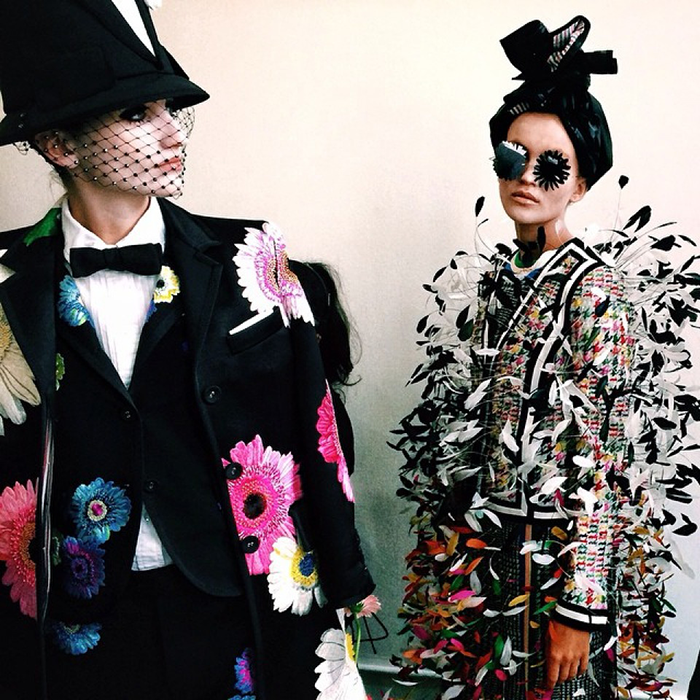
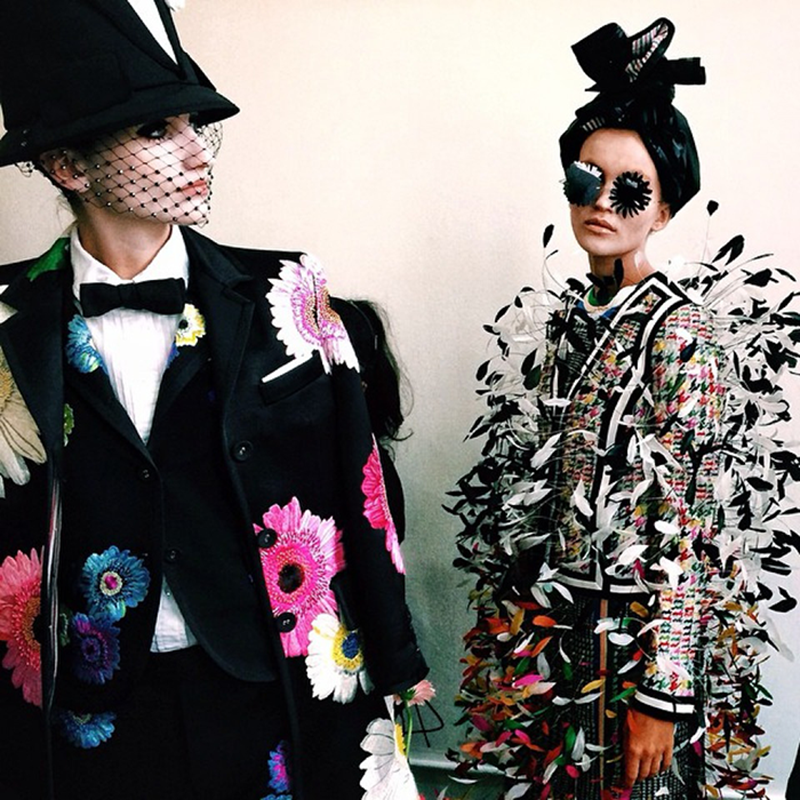
Adjusted image sizes
Needed to change image widths in photoshop to fix bad column alignment

diff --git a/midterm/index.html b/midterm/index.html
@@ -76,12 +76,6 @@
         <!-- carousel -->
         <div id="carouselExampleFade" class="carousel slide carousel-fade" data-ride="carousel">
 
-          <ol>
-            <li data-target="#carouselExampleCaptions" data-slide-to="0" class="active"></li>
-            <li data-target="#carouselExampleCaptions" data-slide-to="1"></li>
-            <li data-target="#carouselExampleCaptions" data-slide-to="2"></li>
-          </ol>
-
           <div class="carousel-inner">
             
             <div class="carousel-item active">
@@ -167,7 +161,7 @@
         <div class="row mt-3">
             <div class="col">
                 <div class="article-image-tall">
-                    <img src="assets/runway-feet.png" class="img-fluid" alt="...">
+                    <img src="assets/runway-feet-2.png" class="img-fluid contain" alt="...">
                     <div class="caption-overlay text-center text-light px-4">
                       <h5>TOE</h5>
                     </div>
@@ -238,38 +232,42 @@
 
 <footer>
 
-  <div class="container-fluid mt-5 ml-5">
-    <div class="row text-left pr-5 pt-2 ml-5">
-      <div class="col-4">
+  <div class="container-fluid mt-5">
+    <div class="row text-center pt-2">
+
+      <div class="col-4 text-left">
         <h1 class="mt-4 mb-3">THE COMPANY</h1>
         <p>About Chameleon</p>
         <p>Careers</p>
         <p>Legal</p>
         <p class="mb-5">Privacy & Cookies</p>
       </div>
-      <div class="col-4">
-          <h1 class="mt-4 mb-3">HELP</h1>
-          <p>FAQs</p>
-          <p>Contact Us</p>
-          <button type="button" class="btn btn-link" data-toggle="modal" data-target="#modalSizing">
-                  <p class="ml-5 pl-1">Sizing</p>
-                </button>
-          <p class="mb-5">Returns & Exchanges</p>
-        </div>
-        <div class="col-4">
-          <h1 class="mt-4 mb-3">MAILING LIST</h1>
-          <button type="button" class="btn btn-link" data-toggle="modal" data-target="#modalSubscribe">
-              <p class="ml-5 pl-1">Subscribe</p>
-            </button>
-          <p>Unsubscribe</p>
-          <p class="mb-5">Contact Us</p>
-        </div>
-      </div>
-      <div class="row">
-      <div class="col spacer">
 
+      <div class="col-4 text-left">
+        <h1 class="mt-4 mb-3">HELP</h1>
+        <p>FAQs</p>
+        <p>Contact Us</p>
+        <button type="button" class="btn btn-link" data-toggle="modal" data-target="#modalSizing">
+          <p class="ml-5 pl-1">Sizing</p>
+        </button>
+        <p class="mb-5">Returns & Exchanges</p>
       </div>
+
+      <div class="col-4 text-left">
+        <h1 class="mt-4 mb-3">MAILING LIST</h1>
+        <button type="button" class="btn btn-link" data-toggle="modal" data-target="#modalSubscribe">
+          <p class="ml-5 pl-1">Subscribe</p>
+        </button>
+        <p>Unsubscribe</p>
+        <p class="mb-5">Contact Us</p>
+      </div>
+
     </div>
+
+    <div class="row">
+      <div class="col spacer">
+    </div>
+
   </div>
 
         <nav class="navbar navbar-dark  navbar-expand-sm fixed-bottom">

diff --git a/midterm/styles/main.css b/midterm/styles/main.css
@@ -47,7 +47,7 @@ h5 {
 
 .caption-overlay h5 {
     font-family: 'Tulpen One', cursive;
-    font-size: 5em;
+    font-size: 3em;
     color: antiquewhite;
     text-shadow: -.25px 0 black, 0 .25px black, .25px 0 black, 0 -.25px black;
     text-align: right;
@@ -100,6 +100,7 @@ a:hover {
 .article-image-tall {
     position: relative;
     width: 100%;
+    height: auto;
 }
 
 .caption-overlay-bg {
@@ -148,7 +149,7 @@ a:hover {
 }
 
 .nameplate {
-    height: 41.3em;
+    height: 43em;
     text-align: center;
 }
 
@@ -203,6 +204,12 @@ footer {
 /* Medium devices (tablets, 768px and up) */
 @media (min-width: 768px) and (max-width: 991.98px) {
 
+
+    .caption-overlay h5 {
+        font-size: 5em;
+    }
+    
+
 .carousel-caption {
     height: 100%;
     width: 100%;
@@ -219,6 +226,12 @@ footer {
 /* Large devices (desktops, 992px and up) */
 @media (min-width: 992px) and (max-width: 1199.98px) {
 
+
+    .caption-overlay h5 {
+        font-size: 5em;
+    }
+
+
 .carousel-caption {
     height: 100%;
     width: 100%;
@@ -234,6 +247,12 @@ footer {
 
 /* Extra large devices (large desktops, 1200px and up) */
 @media (min-width: 1200px) {
+
+    .caption-overlay h5 {
+        font-size: 5em;
+    }
+
+
 
 .carousel-caption {
     height: 100%;

diff --git a/midterm/pages/about.html b/midterm/pages/about.html
@@ -68,7 +68,7 @@
         </div>
         <div class="row">
             <div class="col">
-                <img src="../assets/man-runway-mask.png" class="img-fluid" alt="...">
+                <img src="../assets/man-runway-mask-2.png" class="img-fluid" alt="...">
             </div>
         </div>
     </div>
